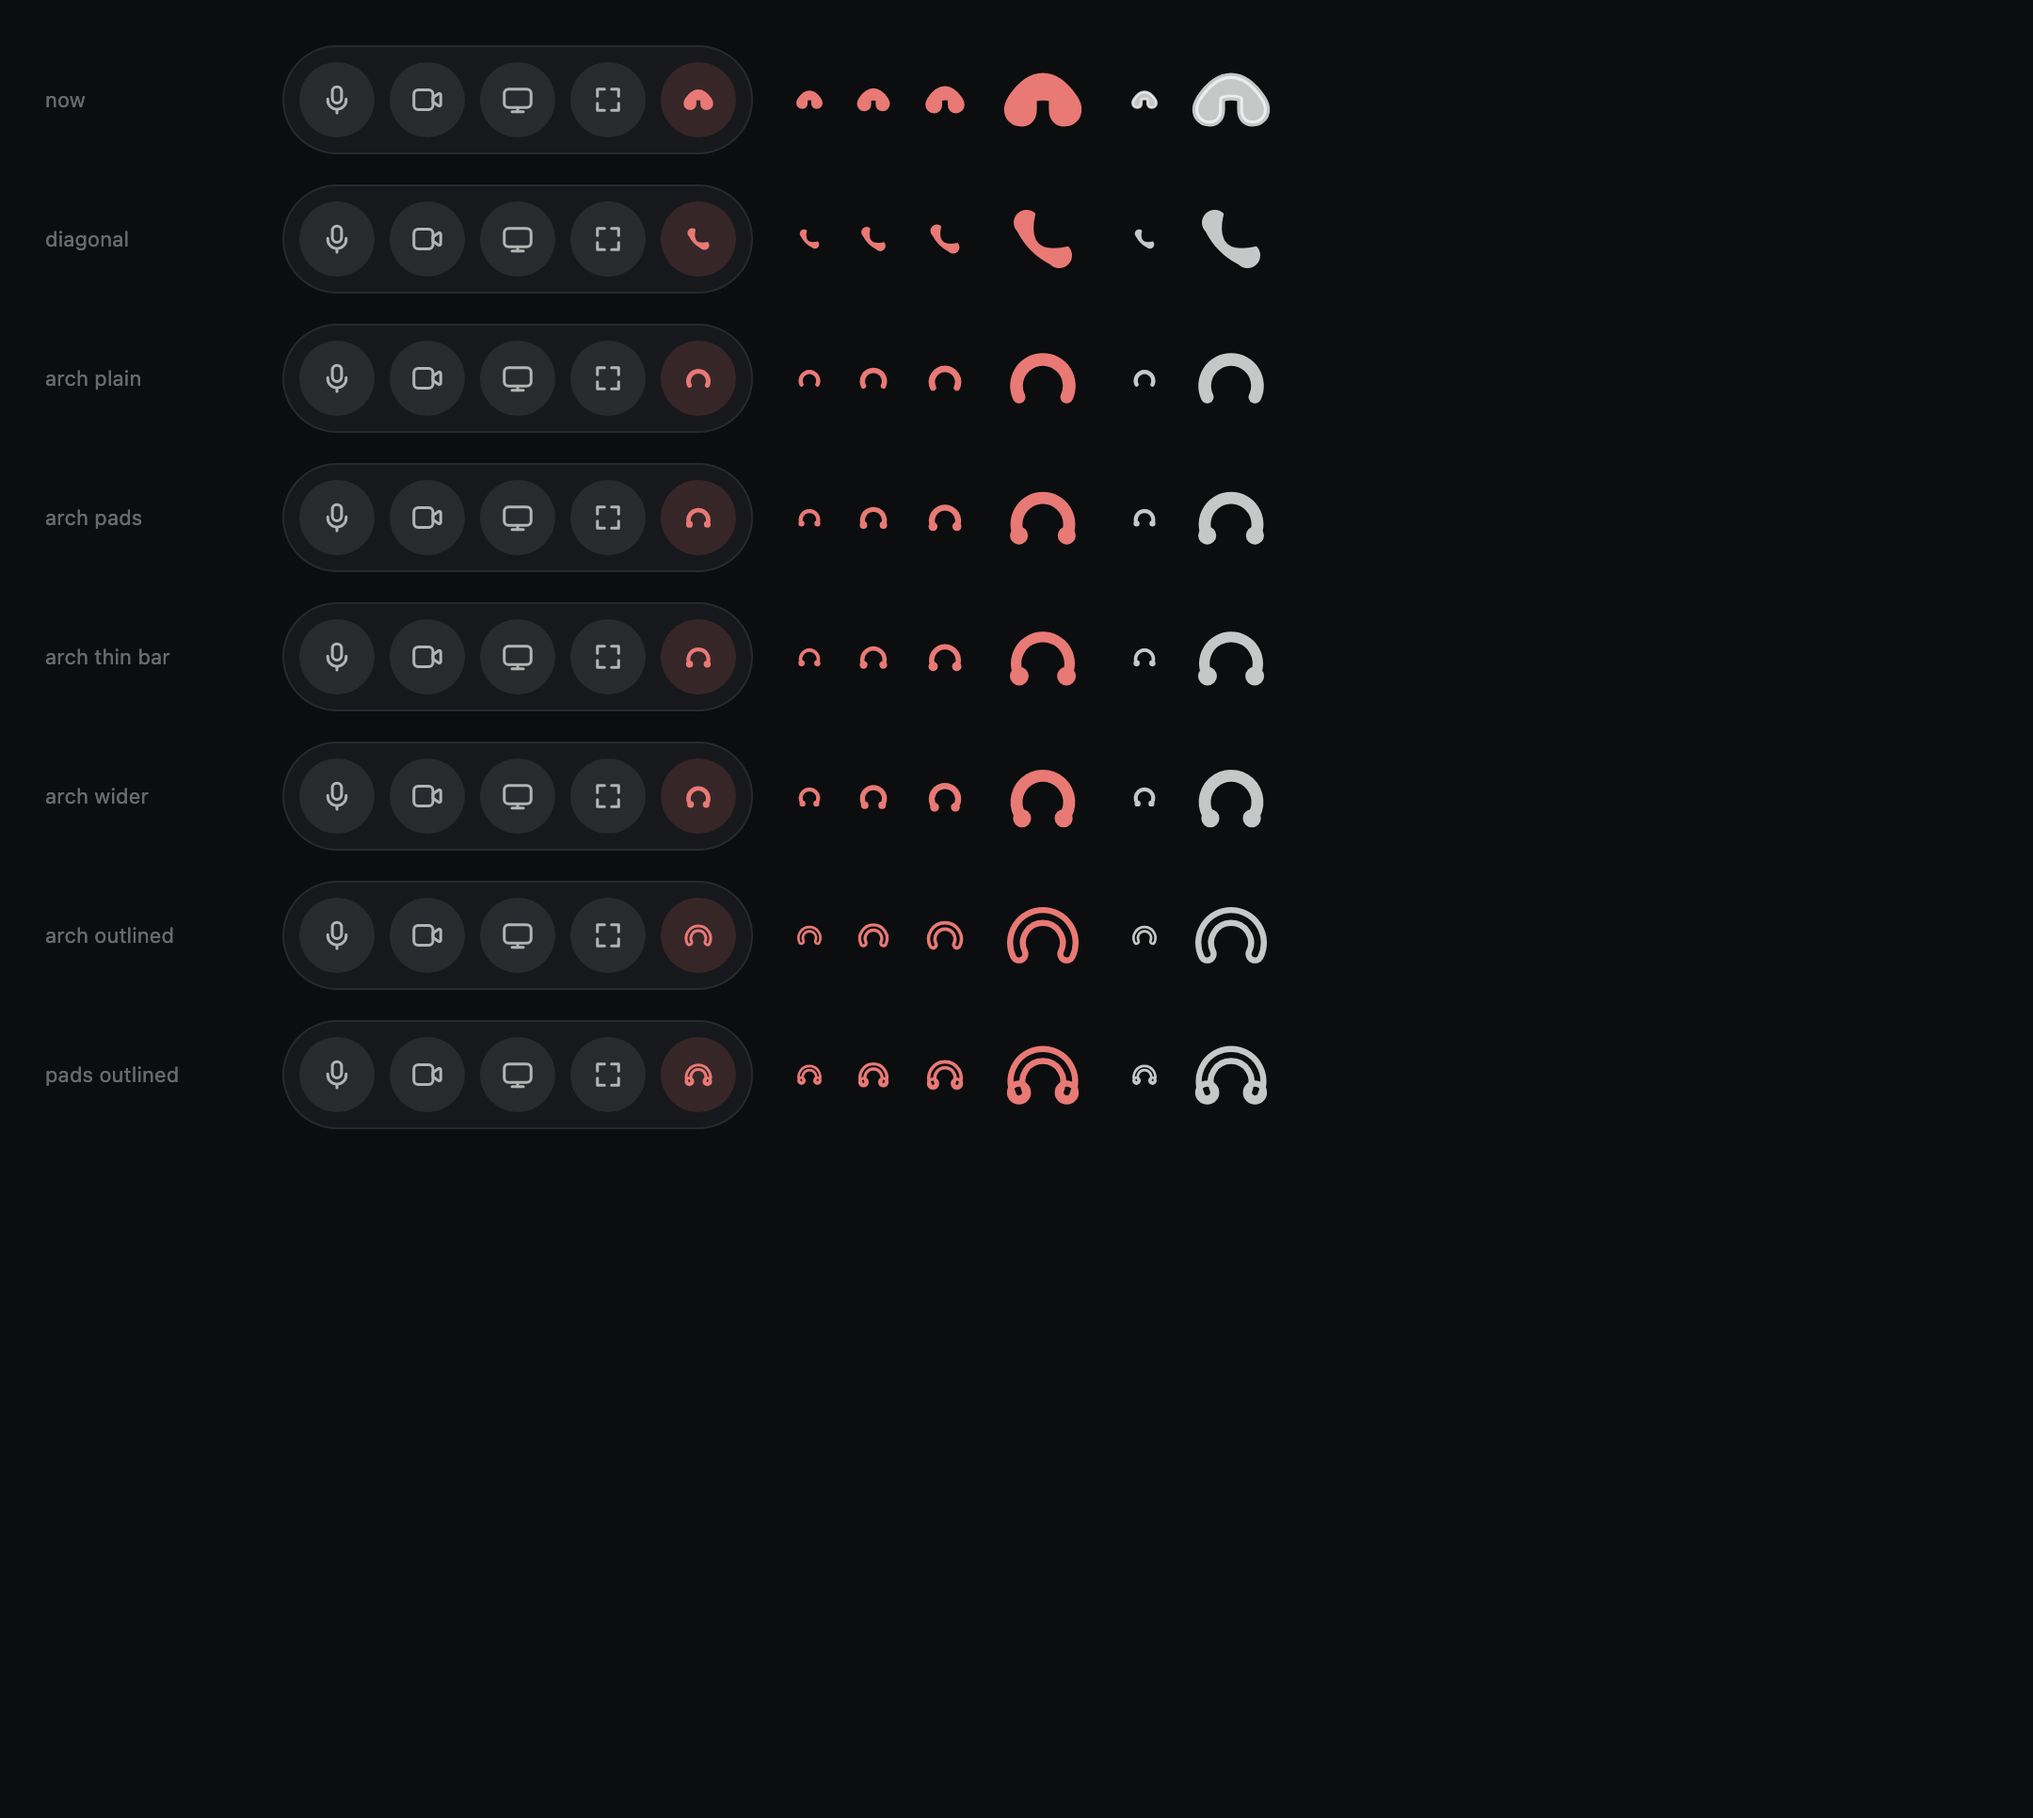
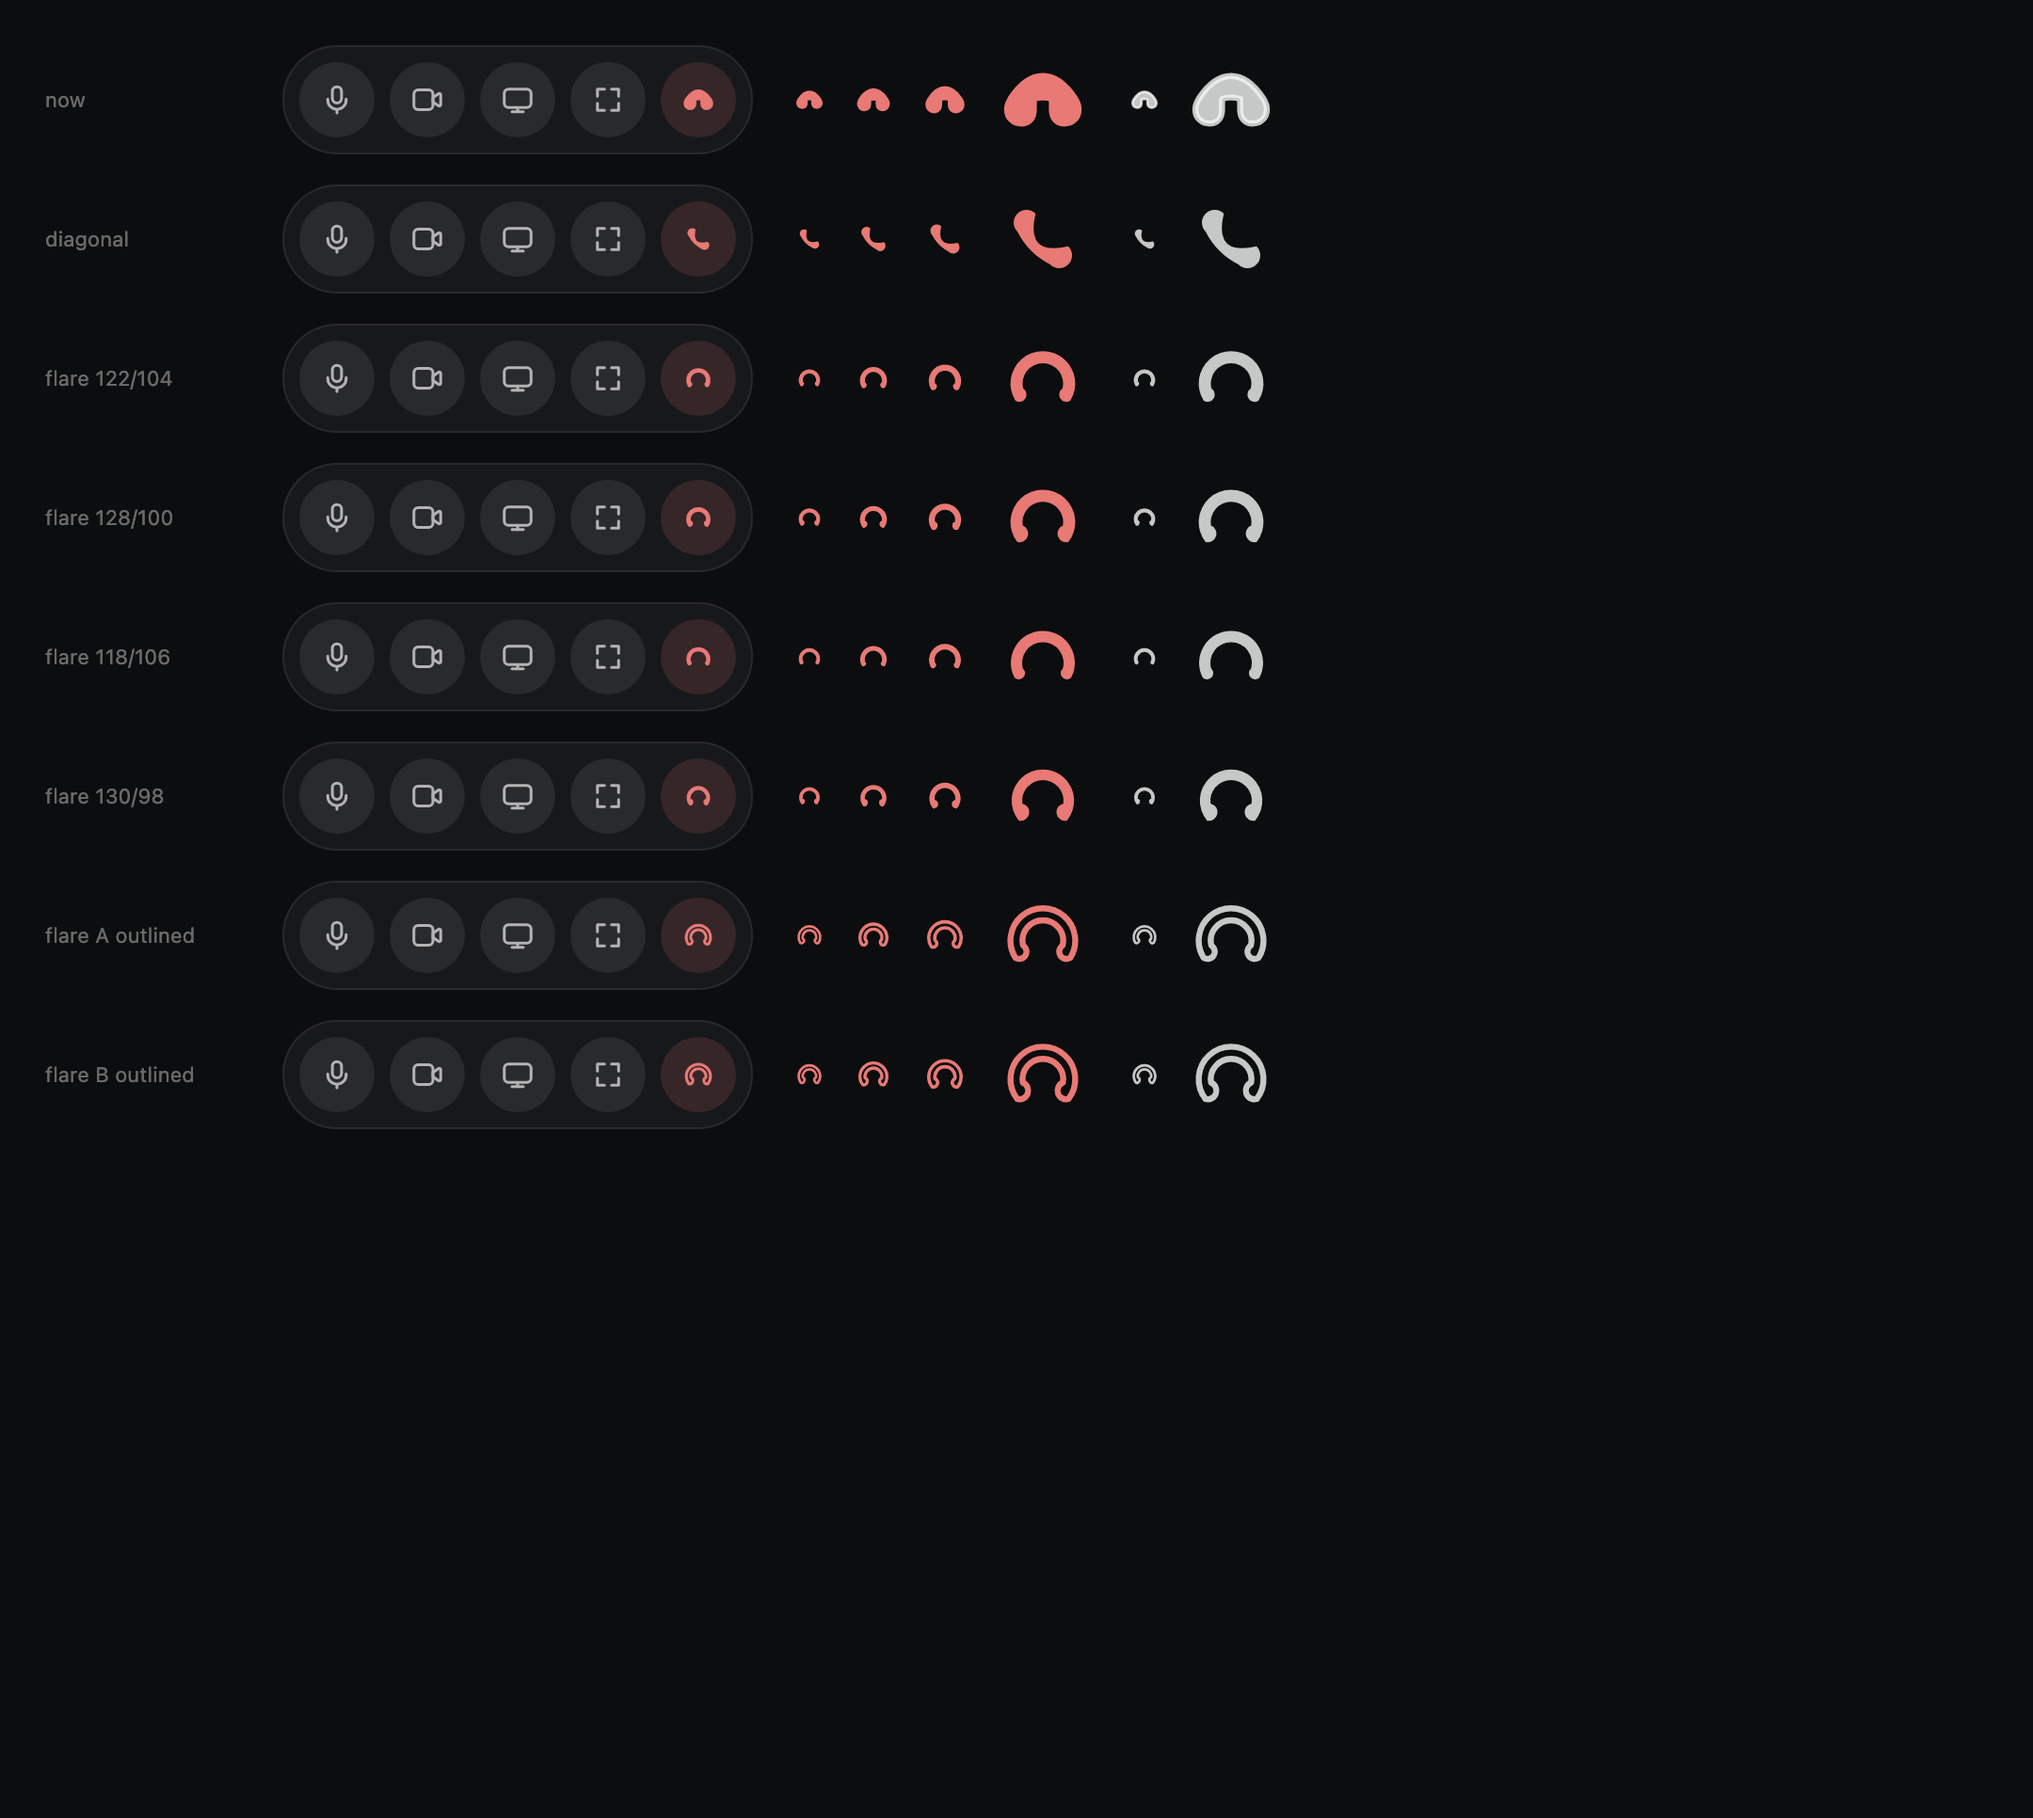
crew sync

diff --git a/scripts/.probe.tsx b/scripts/.probe.tsx
@@ -55,12 +55,12 @@ const DIAGONAL =
 const CANDIDATES: { label: string; glyph: Glyph }[] = [
   { label: 'now', glyph: HangupGlyph },
   { label: 'diagonal', glyph: filled(DIAGONAL) },
-  { label: 'arch plain', glyph: filled(UNIFORM) },
-  { label: 'arch pads', glyph: filled(FLARED) },
-  { label: 'arch thin bar', glyph: filled(FLARED_THIN) },
-  { label: 'arch wider', glyph: filled(WIDER) },
-  { label: 'arch outlined', glyph: outlined(UNIFORM) },
-  { label: 'pads outlined', glyph: outlined(FLARED) }
+  { label: 'flare 122/104', glyph: filled(FLARE_A) },
+  { label: 'flare 128/100', glyph: filled(FLARE_B) },
+  { label: 'flare 118/106', glyph: filled(FLARE_C) },
+  { label: 'flare 130/98', glyph: filled(FLARE_D) },
+  { label: 'flare A outlined', glyph: outlined(FLARE_A) },
+  { label: 'flare B outlined', glyph: outlined(FLARE_B) }
 ]
 
 function Button({ children, danger }: { children: ReactNode; danger?: boolean }) {
